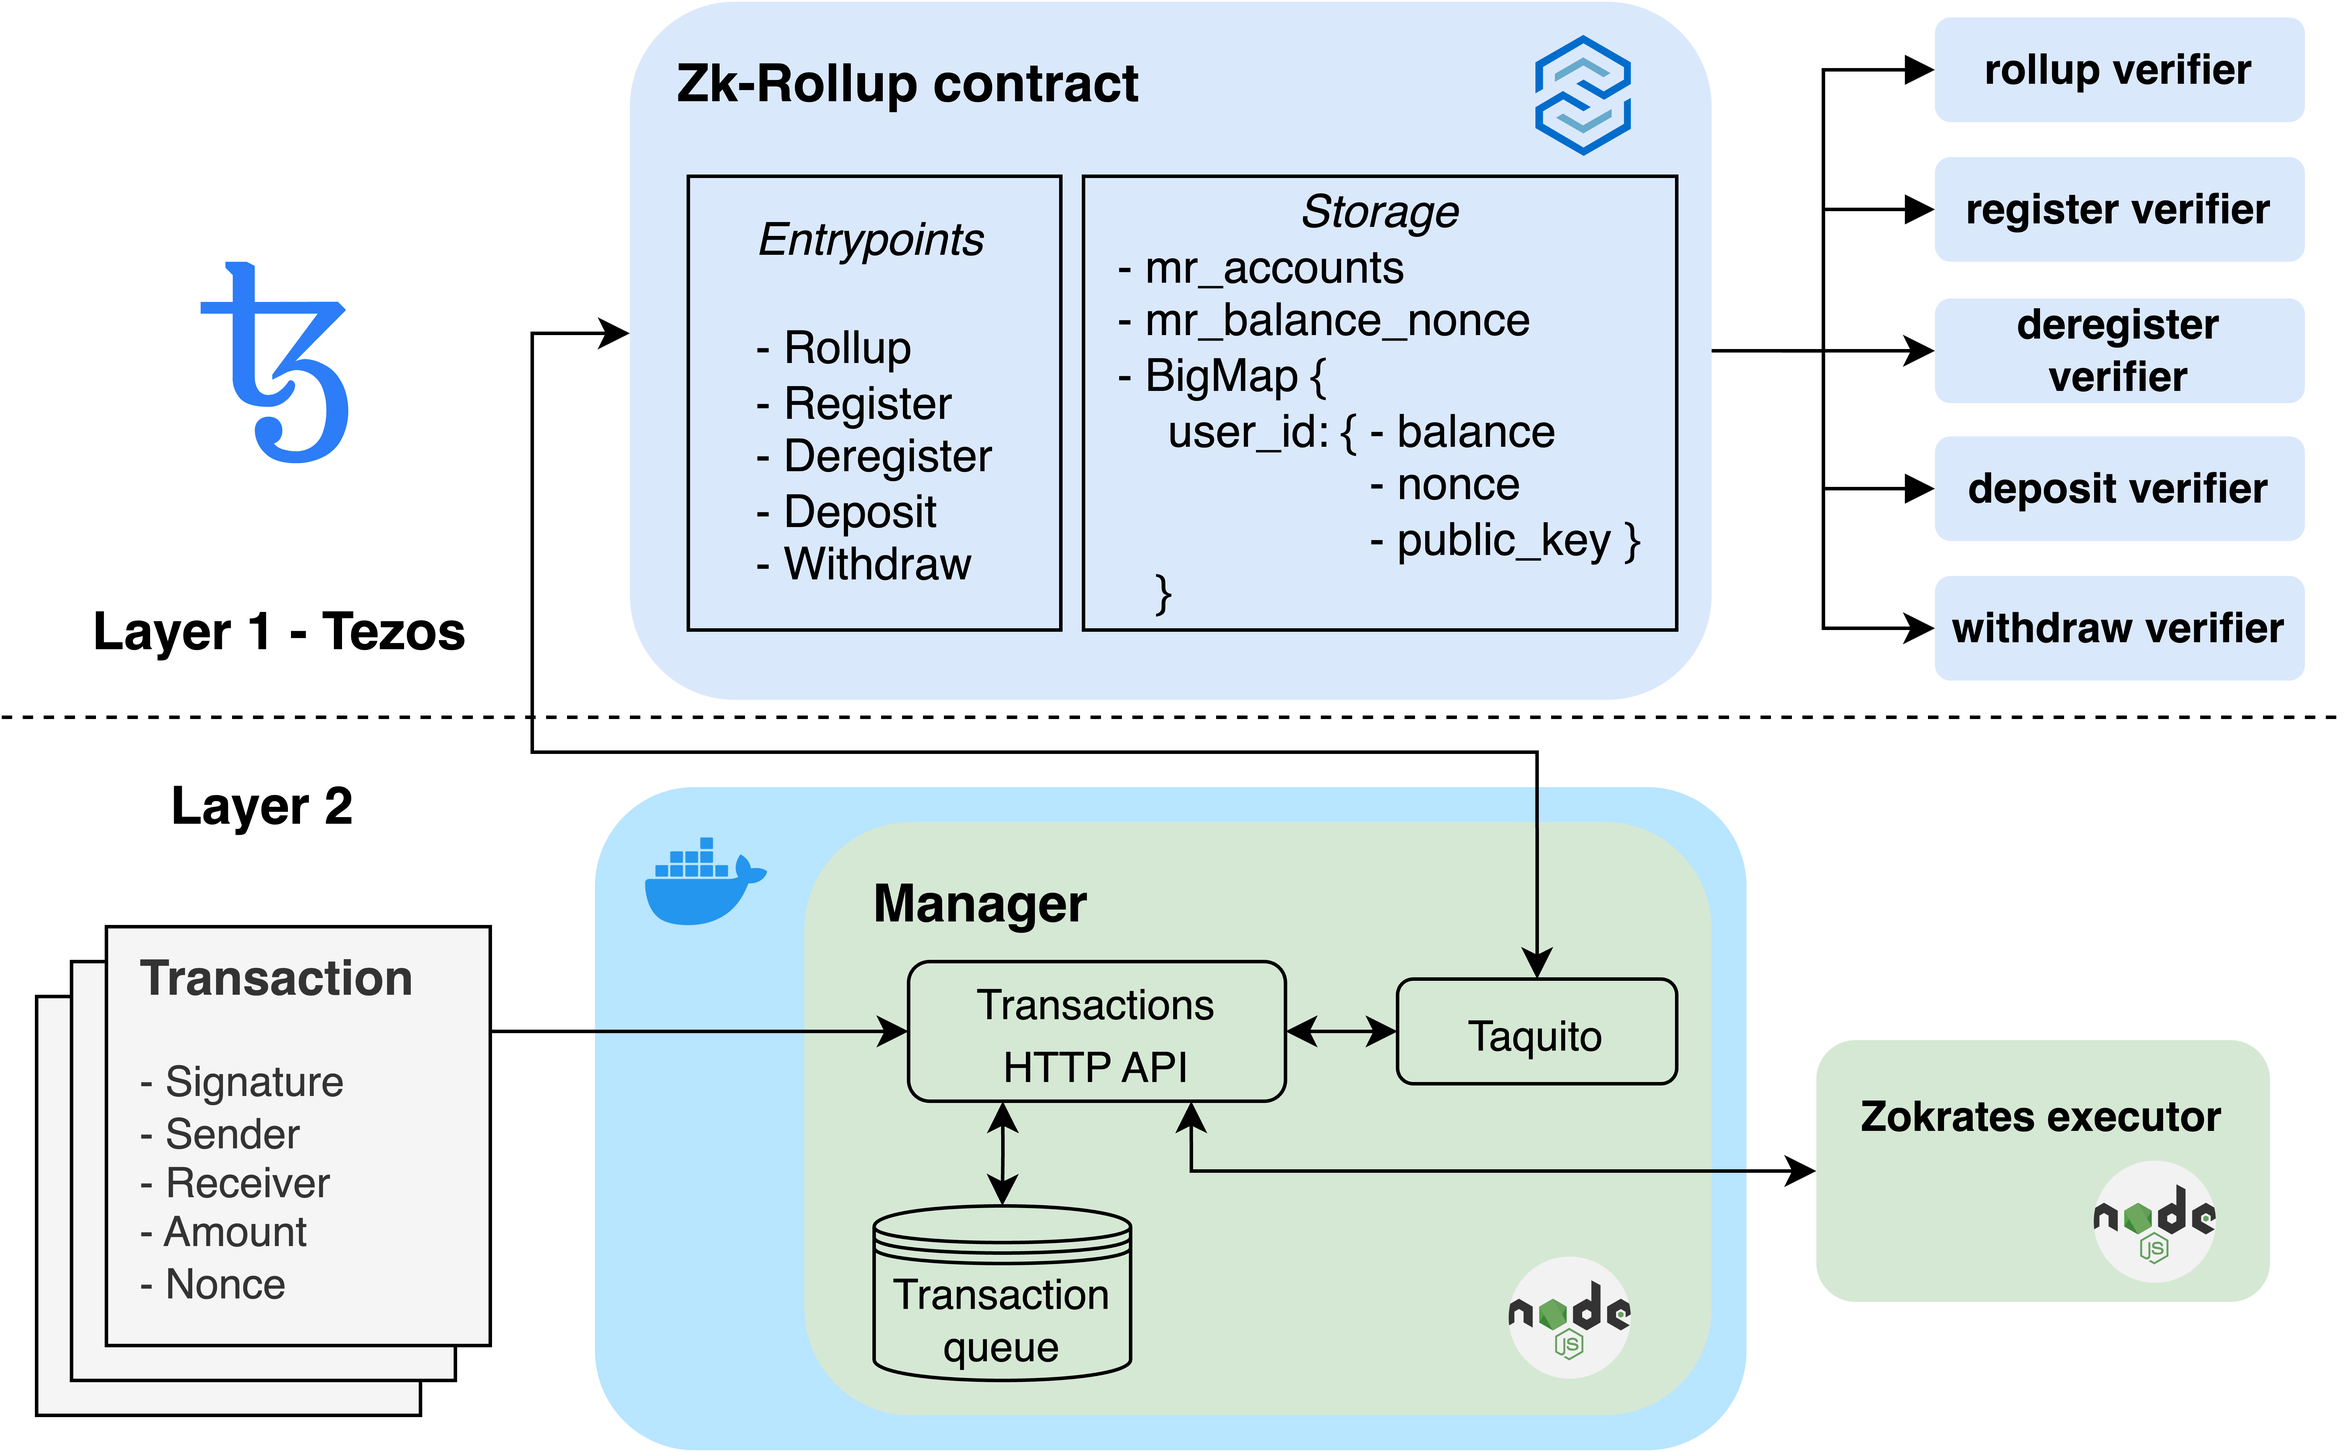
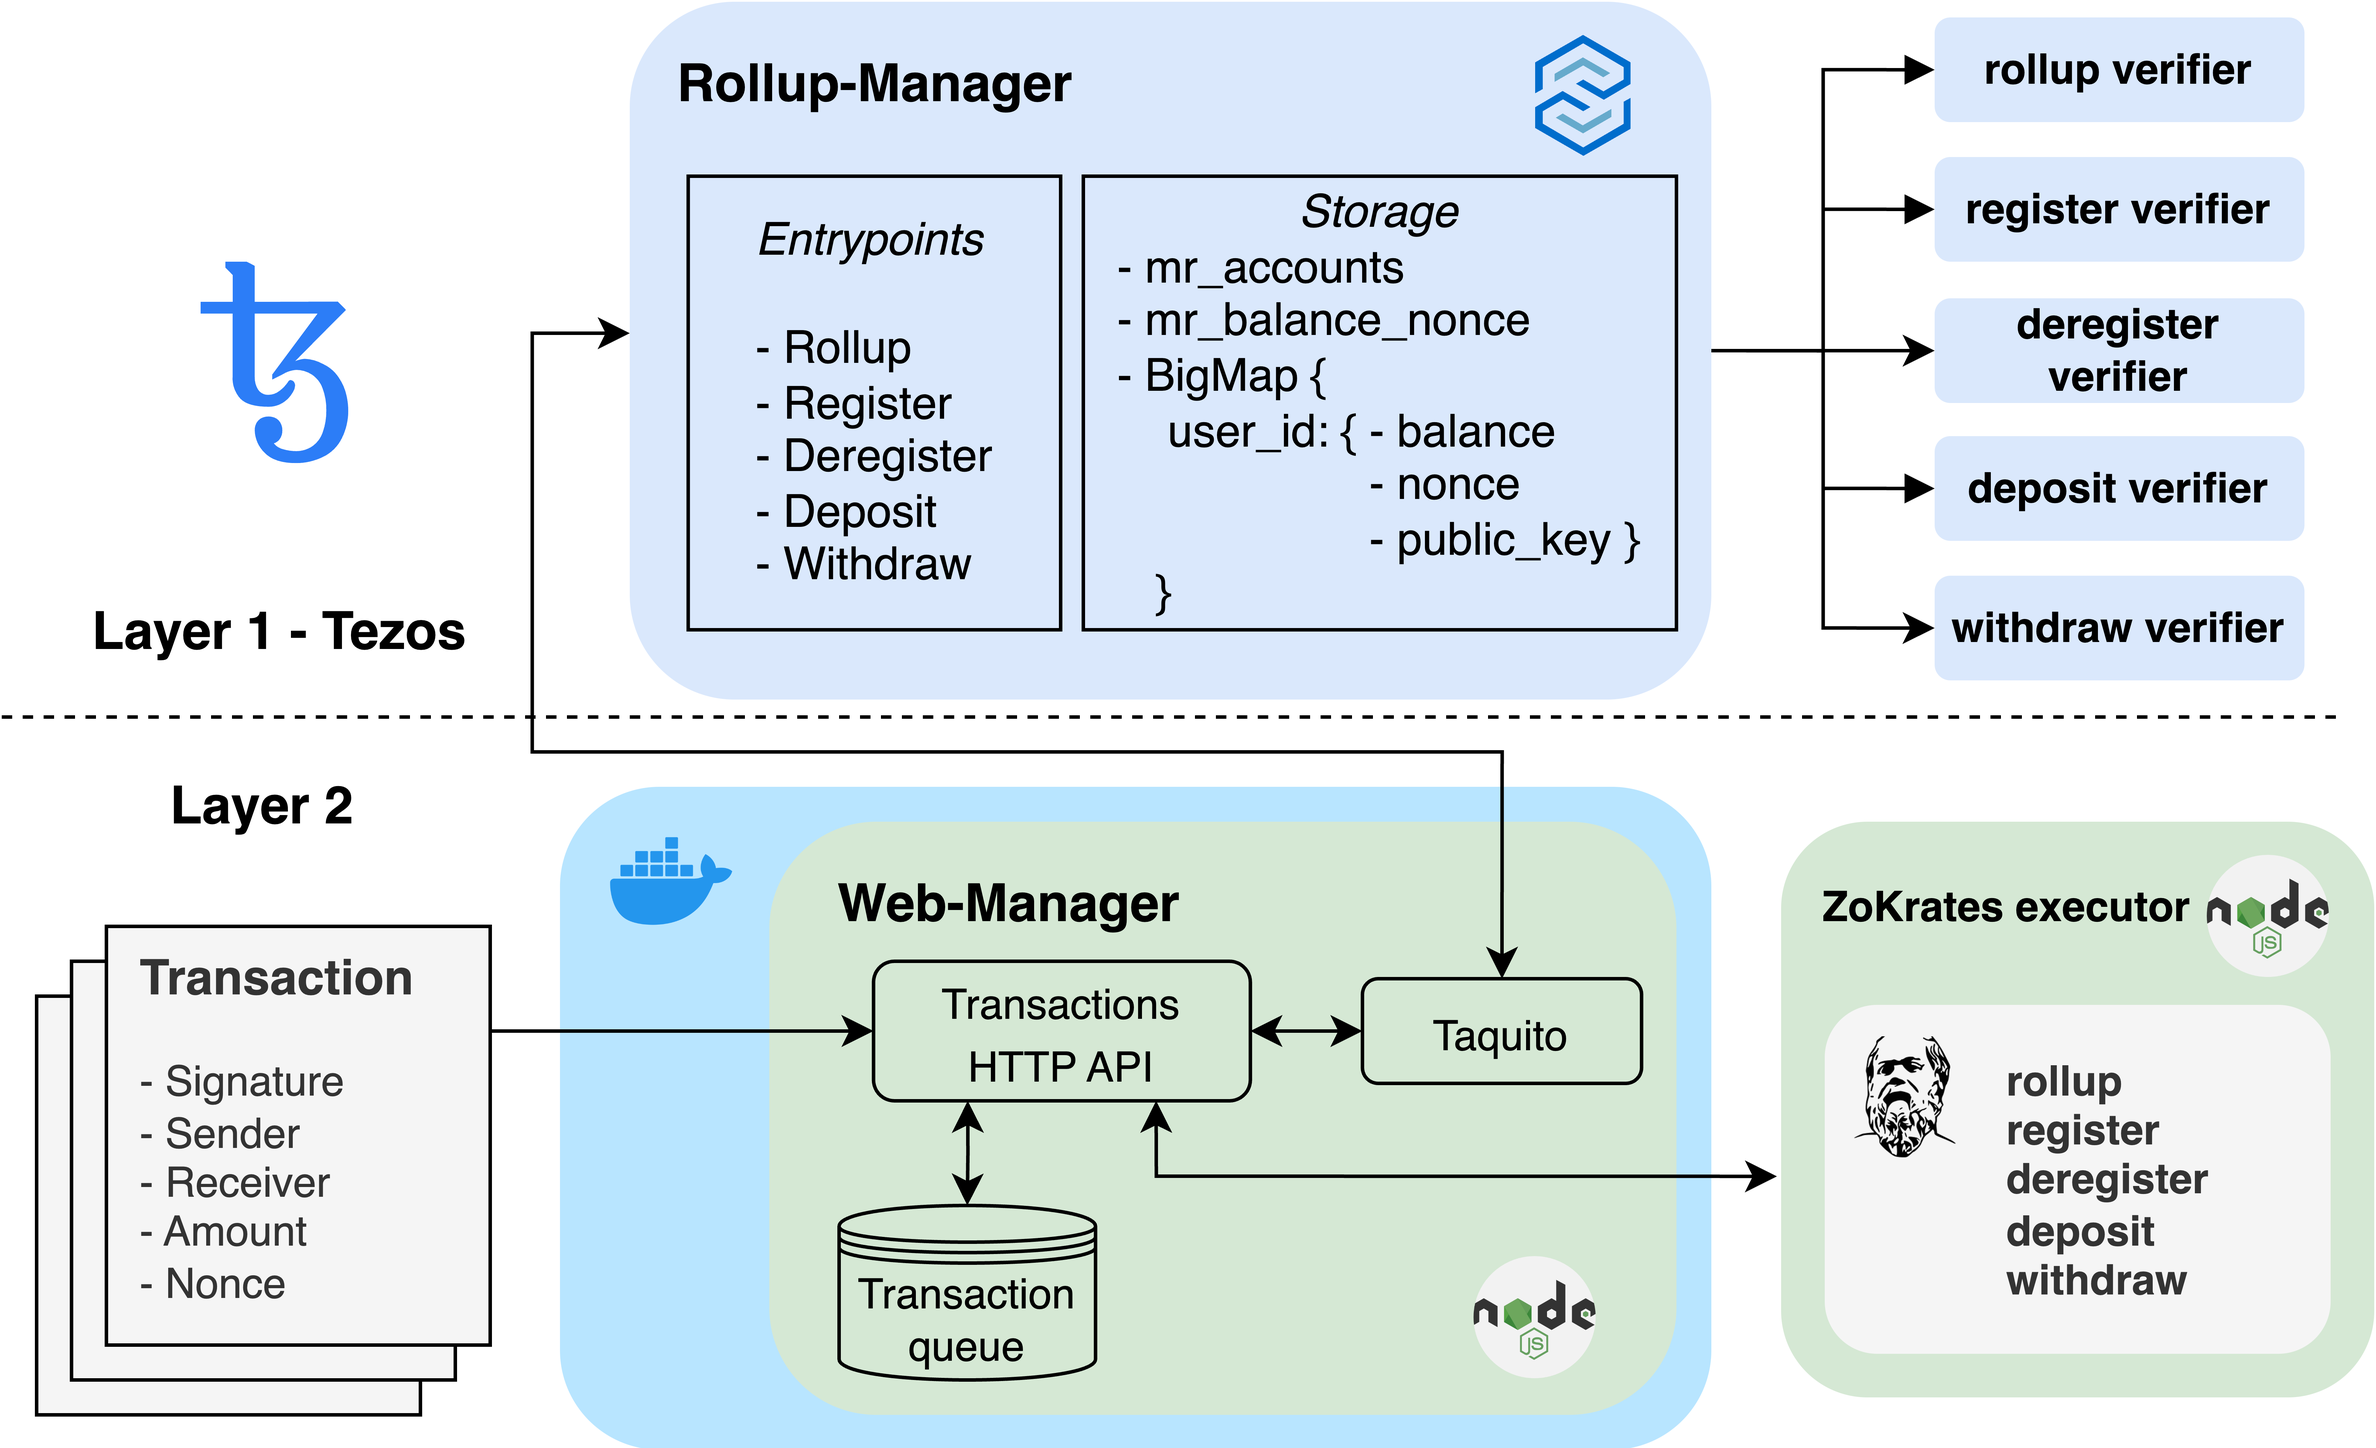
edit img + initial bench

diff --git a/chapters/chapter5.tex b/chapters/chapter5.tex
@@ -70,7 +70,7 @@ For every transaction, certain information needs to be returned: the sender's in
 
 Furthermore, this approach proves more advantageous when a single user initiates multiple transactions to the same recipient, as the sender's index and balance are only returned once.
 
-\subsection{Reducing Proof Size}
+\subsection{Proof Compression}
 
 ZoKrates allows operating on fields of size 254 bits. The proof itself is made up of entries in these fields, no matter the original type of value. Even a simple boolean or a 254-bit value gets represented using just one field entry. This applies to lists of changed indexes, balances, and nonces too. When returning the list of modified indexes, balances and nonces they will occupy a single field value for just 32 bit of information.
 
@@ -102,45 +102,16 @@ Another way to improve this is by concatenating all data into one bit array, and
 
 To get back the original values, the Smart Contract needs to decompress the data. At the moment, the ability to get data from field values as bytes is there, but the current SmartPy version lacks converting from Bytes to Nat. When that feature comes in, it wil be possible to restore original values from field values. The upcoming benchmarks will also account for the estimated cost of this value conversion.
 
-\subsection{Storage}
+\section{Storage}
 
-Initially, the storage was designed with the intention of accommodating a limited number of users, employing a standard Map. It encompassed the following elements:
-\begin{itemize}
-	\item A Map of accounts indexed by a natural number, containing:
-		\begin{itemize}
-			\item A public key;
-			\item A balance.
-		\end{itemize}
-	\item A list of 8 scalar values representing the Merkle Tree root of the accounts' public keys;
-	\item A list of 8 scalar values representing the Merkle Tree root of the accounts' balances.
-\end{itemize}
+Initially, the storage was designed with the intention of accommodating a limited number of users, employing a standard Map. Standard maps in Tezos are always deserialized at every contract execution, even if the elements of the map will not be used. This approach is suitable for debugging or where there is the need of iterating through the entire map without knowing its size. 
 
-With scalability as a focal point, the storage structure was revamped to handle a growing user base through the adoption of a Big Map. This alteration is pivotal, given that the Big Map is lazily deserialized\footnote{\url{https://tezos.gitlab.io/michelson-reference/\#type-big_map}}, negating the need for gas during contract calls to deserialize the entire accounts Map. The storage now comprises:
-\begin{itemize}
-	\item A Big Map of accounts indexed by a natural number, encompassing:
-		\begin{itemize}
-			\item A public key;
-			\item A balance;
-			\item A nonce.
-		\end{itemize}
-	\item A list of 8 scalar values representing the Merkle Tree root of the accounts' public keys;
-	\item A list of 8 scalar values representing the Merkle Tree root of the accounts' balances concatenated with their respective nonces.
-\end{itemize}
+With scalability as a focal point, the storage structure was updated to handle a growing user base through the adoption of a Big Map. This change is pivotal, due that the Big Map is lazily deserialized\footnote{\url{https://tezos.gitlab.io/michelson-reference/\#type-big_map}}, avoiding the waste of gas during contract calls to deserialize the entire accounts Map. It is, in fact, a dangerous issue, as the gas limit could be reached before the contract is deserialized, making it unusable as described in \ref{subsec:gasLimit}.
 
-Details on the nonce mechanism and the Merkle Tree roots are elucidated in Section \ref{sec:repeatedtransactionsattack}.
+\section{ZoKrates Native Execution}
+The execution of ZoKrates programs demands substantial resources, as evidenced in Section \ref{sec:benchmarks}. As a consequence, executing ZoKrates programs is allocated to a distinct server. This server operates as an independent entity, called upon by Web-Manager. This strategy serves the dual purpose of optimizing resource allocation and facilitating scalability. Specifically, the architecture enables the isolation of resource-intensive tasks to a separate server, allowing efficient utilization and the ability to scale individual components as needed.
 
-\subsection{ZoKrates Native Execution}
-The execution of ZoKrates programs demands substantial resources, as evidenced in Section \ref{sec:benchmarks}. As a consequence, executing ZoKrates programs is allocated to a distinct server. This server operates as an independent entity, called upon by the primary Web Server. This strategy serves the dual purpose of optimizing resource allocation and facilitating scalability. Specifically, the architecture enables the isolation of resource-intensive tasks to a separate server, allowing efficient utilization and the ability to scale individual components as needed.
-
-The primary server dispatches requests, inclusive of essential inputs sourced from the Manager smart contract, to the ZoKrates servers. These dedicated servers execute the ZoKrates programs, subsequently furnishing the results to the primary server. Notably, the utilization of a containerized environment for the ZoKrates server introduces challenges. The approach of running ZoKrates programs directly on the machine is chosen to mitigate the introduction of overhead stemming from OS-level virtualization, particularly relevant in scenarios involving pre-existing virtualized environments, such as cloud computing contexts. Figure \ref{fig:5_drawings-L2_technologies_ZoKrates_metal} illustrates the technologies of the new Layer 2 components.
-
-\begin{figure}[ht]
-	\centering
-	\includegraphics[width=0.7\columnwidth]{5_drawings-L2_technologies_ZoKrates_metal.png}
-	\caption[Scaling Solutions]{Technologies of the new Layer 2 components.}  
-	\label{fig:5_drawings-L2_technologies_ZoKrates_metal}
-  \end{figure} 
-
+The primary web server dispatches requests, including the needed inputs fetched from the Manager smart contract, to the ZoKrates servers. These dedicated servers execute the ZoKrates programs, returning the results to the primary server. Notably, the utilization of a containerized environment for the ZoKrates server introduces challenges. The approach of running ZoKrates programs directly on the machine is chosen to mitigate the introduction of overhead stemming from OS-level virtualization, particularly relevant in scenarios involving pre-existing virtualized environments, such as cloud computing contexts.
 
 \section{New Features Implementation}
 This section details the implementation of the new features of the project, including the problems encountered and the solutions devised.
@@ -193,68 +164,3 @@ The second phase is initiated by a Web Server that detects a considerable accumu
   The withdrawal initiation commences as users dispatch withdrawal requests to the Web Server. Subsequently, the Web Server retrieves the user's balance and nonce from the manager contract and generates withdrawal inputs for the dedicated ZoKrates program. This ZoKrates program orchestrates the computation of the new root hash for the merkle tree containing balances and nonces. This computation involves the subtraction of the user-specified amount. The computed new root hash is then relayed back to the Web Server. In turn, the Web Server invokes the \textit{receive\_withdrawal\_proof} entrypoint within the manager smart contract. This invocation encompasses the provision of the new root hash as a parameter.
   
   Within the manager contract, the merkle tree root hash undergoes an update, alongside adjustments to the user's balance and nonce. Subsequently, the requested sum is transferred to the user's account, finalizing the withdrawal process.
-  
-
-
-\section{Optimization}
-During a preliminary testing phase of the Layer 2 system immediately emerged a problem when increasing the number of user from 4 to 8. The problem was the compute resources needed to compile and run the ZoKrates programs: with only 8 users the compilation of the programs required more than 100GB of RAM. Due to the structure of the merkle trees generation, only powers of 2 can be taken as number of users. The 
-
-\begin{figure}[htb]
-  \centering
-  \includegraphics[width=10cm]{screenshot_2_projects}
-  \caption{Project Structure}
-  \label{fig:projects}
-\end{figure}
-
-\noindent
-The following listing briefly describes the single packages of both projects in alphabetical order to give an overview of the implementation:
-\\
-\\
-\textbf{config} 
-\\
-Lorem Ipsum...
-\\
-\\
-\textbf{server} 
-\\
-Lorem Ipsum...
-\\
-\\
-\textbf{utils} 
-\\
-Lorem Ipsum...
-
-\section{Important Implementation Aspects\label{sec:implaspects}}
-
-Do not explain every class in detail. Give a short introduction about the modules or the eclipse projects. If you want to explain relevant code snippets use the 'lstlisting' tag of LaTeX. Put only short snippets into your thesis. Long listing should be part of the annex.
-
-\lstset{caption=JSON String Code Snippet,label=jsonstring,showstringspaces=false}
-\begin{lstlisting}
-{
-	id: 1,
-	method: "myInstance.getGroup",
-	params: ["Teammates", 2, true]
-}
-
-{
-	id: 2,
-	result: [
-		  "groupDesc":"These are my teammates",
-		  {
-			"javaClass":"src.package.MemberClass",
-			"memberName": "Bob",      
-		  }
-		]
-}\end{lstlisting}
-
-You can also compare different approaches. Example: Since the implementation based on X failed I choosed to implement the same aspect based on Y. The new approach resulted in a much faster ...
-
-\section{Graphical User Interface\label{sec:gui}}
-
-Lorem Ipsum...
-
-\section{Documentation\label{sec:docu}}
-
-Lorem Ipsum...
-
-

diff --git a/chapters/chapter6.tex b/chapters/chapter6.tex
@@ -1,26 +1,24 @@
 \chapter{Evaluation\label{cha:chapter6}}
 
-In this chapter the implementation of Component X is evaluated. An example instance was created for every service. The following chapter validates the component implemented in the previous chapter against the requirements.
-\\
-\\
-Put some screenshots in this section! Map the requirements with your proposed solution. Compare it with related work. Why is your solution better than a concurrent approach from another organization?
+In this chapter the implementation of the Rollup System is evaluated. The evaluation is divided into two parts: the first part evaluates the performances of the ZoKrates rollup program, while the second part evaluates the performances of the Rollup System as a whole.
+
+
+% Put some screenshots in this section! Map the requirements with your proposed solution. Compare it with related work. Why is your solution better than a concurrent approach from another organization?
 
 \section{Test Environment\label{sec:testenvir}}
 
-Fraunhofer Institute FOKUS' Open IMS Playground was used as a test environment for the telecommunication services. The IMS Playground ...
+ISE's department offers a server for executing the Rollup System. The server is equipped with an Intel Xeon CPU E3-1270 v6 @ 3.80GHz, 64GB DDR4 RAM, 32 GB of SWAP memory and 250GB of SSD storage. The server runs Gentoo release 2.7 Linux distribution with kernel version 5.10.52.
 
-\section{Scalability\label{sec:scal}}
+The blockchain used for the Rollup System is the Tezos blockchain running on the Ghostnet testnet, with Nairobi Protocol. The rpc node used is \url{https://ghostnet.ecadinfra.com/}.
 
-Lorem Ipsum
-
-\section{Usability\label{sec:usab}}
-
-Lorem Ipsum
 
 \section{Benchmarks\label{sec:benchmarks}}
 
 \subsection{Hash Function\label{subsec:6_hashfunc}}
 
-\subsection{Verifier key and proof size\label{subsec:6_verifierproofsize}}
+The hash function decision has been a key point to make the system more responsive and efficient, as the generation of the Merkle Trees and the merging process of balances and nonces rely on it. The initial programs were using sha2-256, but it was too slow and it was not possible to compile programs with more than 8 users. The implementation of the programs has been changed to use sha3-256, which revealed to be faster: ZoKrates sha2-256, in fact, adds a layer of complexity to the computation because it adds a 256 bits in inputs adding a padding to the input, and involving more constraints in the computation. The sha3-256 implementation allowed performance increase without changing the rest of the program, as the inputs size and outputs were the same as sha2-256.
+Finally the hash function has then been changed to Poseidon, which is a very zk-SNARK friendly, allowing the compilation of programs up to 1024 users.
 
-Lorem Ipsum
+
+
+\subsection{Verifier key and proof size\label{subsec:6_verifierproofsize}}

diff --git a/chapters/chapter4.tex b/chapters/chapter4.tex
@@ -6,7 +6,7 @@ Layer 1 primarily consists of the rollup smart contracts. These contracts are di
 
 \begin{figure}[htb]
   \centering
-  \includegraphics[width=9cm]{4_Architecture-L1_general.png}
+  \includegraphics[width=9cm]{4_drawings-L1_general.png}
   \caption{Layer 1 Overview}
   \label{fig:Layer1overview}
 \end{figure}
@@ -22,7 +22,7 @@ Its entrypoints handle proofs from L2 programs: forwarding proofs to relevant ve
 
 \begin{figure}[ht]
   \centering
-  \includegraphics[width=10cm]{4_Architecture-Sequence_general_L1.png}
+  \includegraphics[width=10cm]{4_drawings-Sequence_general_L1.png}
   \caption{Layer 1 Sequence Overview}
   \label{fig:Layer1sequencediagram}
 \end{figure}
@@ -56,7 +56,7 @@ Layer 2 consists of rollup programs and a Web server. Rollup programs generate z
 
 \begin{figure}[htb]
   \centering
-  \includegraphics[width=13cm]{4_Architecture-L2_general.png}
+  \includegraphics[width=13cm]{4_drawings-L2_general.png}
   \caption{Layer 2 Overview}
   \label{fig:Layer2overview}
 \end{figure}
